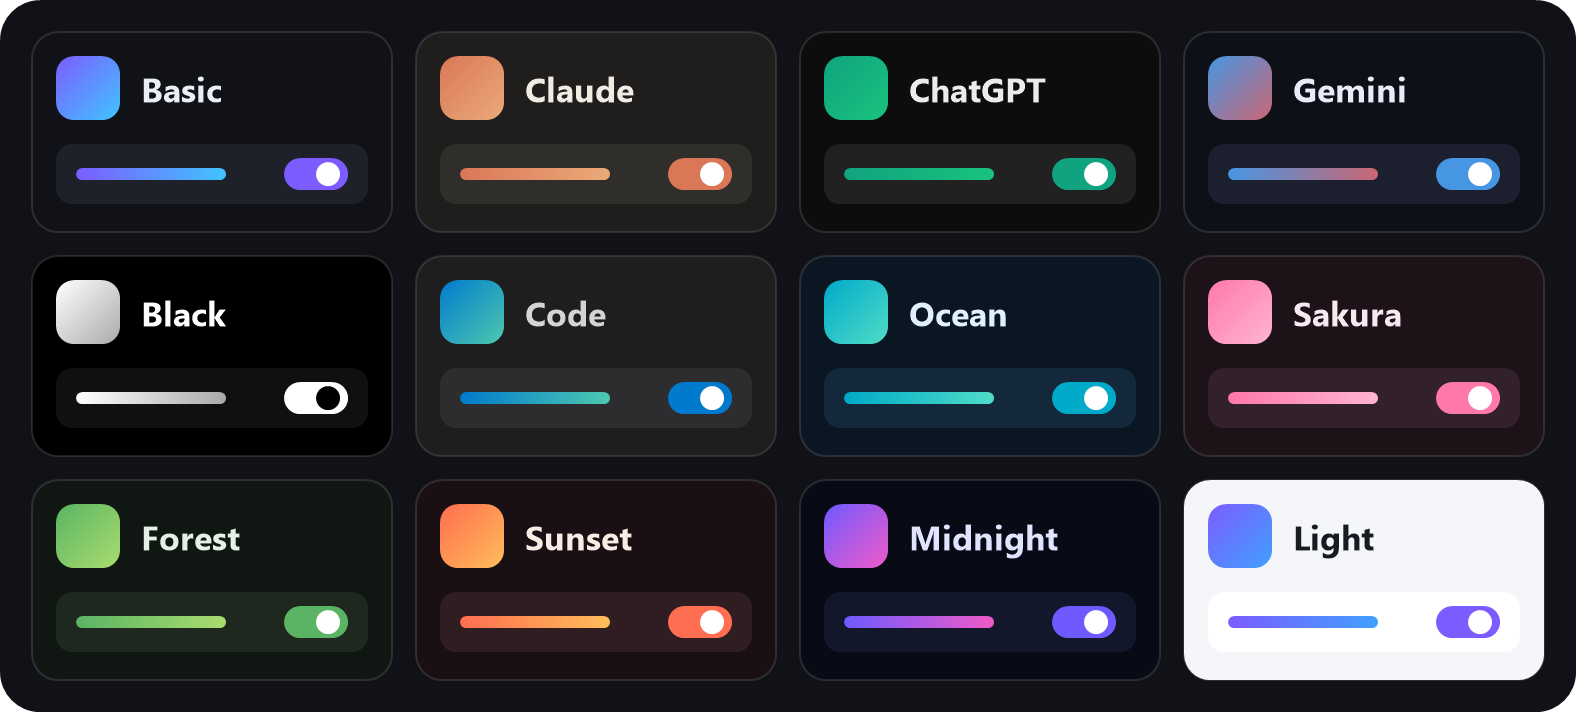
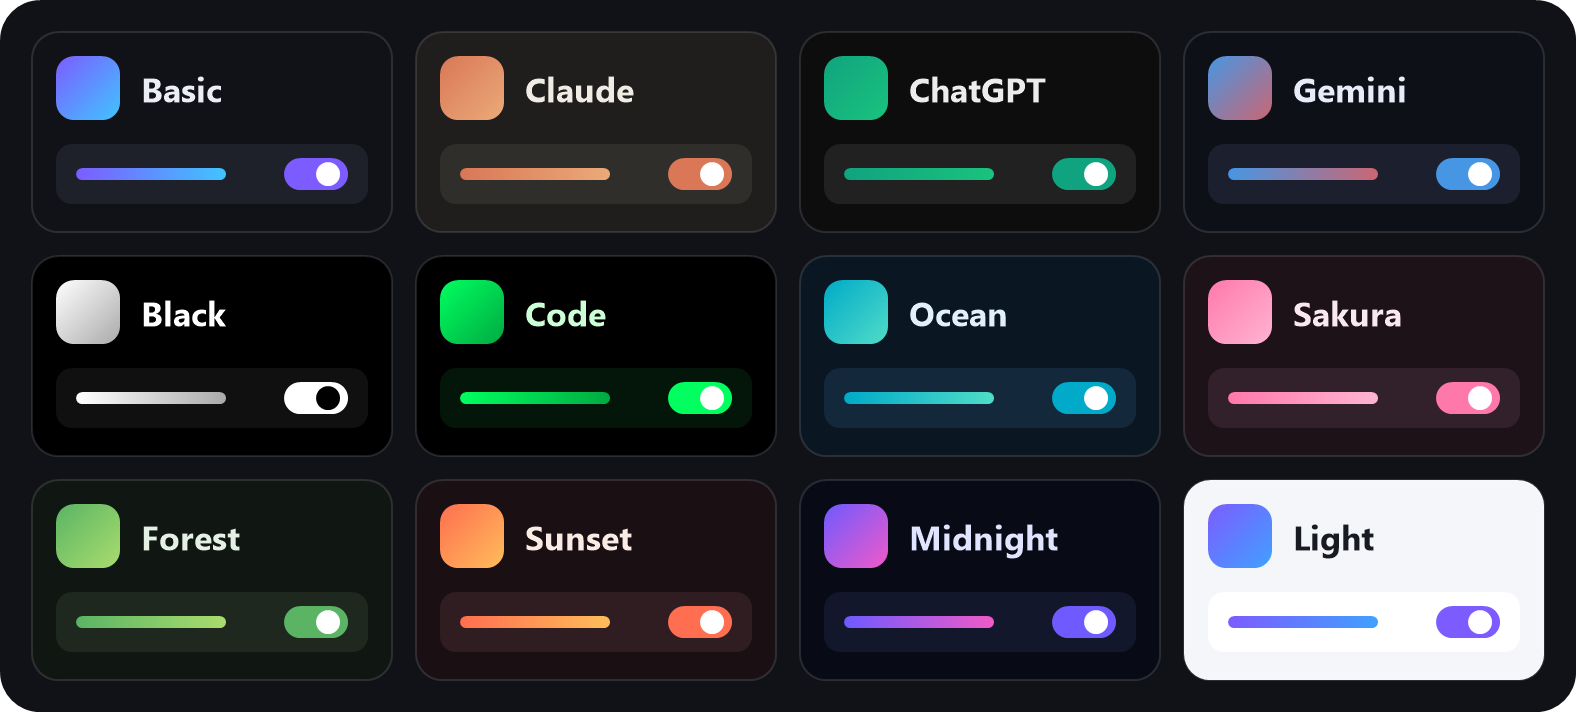
Matrix rain backdrop and green glass look for the Code theme

Changed region(s): [[0.2487, 0.3399, 0.4975, 0.6489]]

diff --git a/CLAUDE.md b/CLAUDE.md
@@ -4,7 +4,7 @@ This file provides guidance to Claude Code (claude.ai/code) when working with co
 
 ## What this is
 
-Luau script hub for a Roblox executor. The UI is **our own library, `ui.lua`**; it replaced Rayfield Gen2. It copies the subset of the Gen2 API the modules use: lowercase props (`name`, `description`, `callback`, `flag`, `forgetState`), `Window:CreateTab/Notify/Unload/Get/Set`, `Window.Flags` (a proxy where writing calls `:Set` and fires the callback, iterable with `for k, v in Window.Flags`), and `Tab:CreateSection/Toggle/Slider/Dropdown/Button/Text`. If a module needs a new element or option, add it to `ui.lua` rather than calling Rayfield. Per-game values save to `<workspace>/megab/configs/<GameId>.json`. The global UI settings (theme and toggle key, chosen from the gear panel) save to `megab/settings.json`. Closing the window shows a round icon at the top center that reopens it. Theming works through `bind(inst, prop, themeKey)` plus `onTheme(fn)` refreshers, so new UI pieces must use those, or a theme switch won't recolor them. Icons are Lucide, stored as `{assetId, rectX, rectY}` (48px) in the `ICONS` table at the top of `ui.lua`, extracted from Rayfield's generated `icons.lua`. Add a new icon by looking up its entry there; `CreateTab` also takes `icon = "<lucide-name>"`. Themes with a `mascot = "<name>"` field (Claude, ChatGPT, Gemini) show `assets/<name>.png` as a faint watermark over the pages: `ui.lua` caches it in `megab/assets/`, downloads it once from `opts.assetBase` (the loader passes `REMOTE_BASE`), and displays it with `getcustomasset`; with no `getcustomasset` it just shows nothing. The PNGs were supplied by the user. A dark logo must be recolored to white on a transparent background, or it disappears on dark themes. Keep them at 1080px or smaller. A UIStroke on a CanvasGroup ignores `GroupTransparency`, so the window and splash strokes are faded by hand in open, close and unload. Tests can click UI buttons with `firesignal(button.MouseButton1Click)`. No build, lint, or test tooling exists. Scripts run inside the executor and get tested in a live Roblox client, for example through the `roblox-mcp` / `madium` / `potassium` MCP tools when they are connected. The loader reads `megab/ui.lua` from the workspace (or `REMOTE_BASE`), so `ui.lua` needs syncing there like the modules.
+Luau script hub for a Roblox executor. The UI is **our own library, `ui.lua`**; it replaced Rayfield Gen2. It copies the subset of the Gen2 API the modules use: lowercase props (`name`, `description`, `callback`, `flag`, `forgetState`), `Window:CreateTab/Notify/Unload/Get/Set`, `Window.Flags` (a proxy where writing calls `:Set` and fires the callback, iterable with `for k, v in Window.Flags`), and `Tab:CreateSection/Toggle/Slider/Dropdown/Button/Text`. If a module needs a new element or option, add it to `ui.lua` rather than calling Rayfield. Per-game values save to `<workspace>/megab/configs/<GameId>.json`. The global UI settings (theme and toggle key, chosen from the gear panel) save to `megab/settings.json`. Closing the window shows a round icon at the top center that reopens it. Theming works through `bind(inst, prop, themeKey)` plus `onTheme(fn)` refreshers, so new UI pieces must use those, or a theme switch won't recolor them. Icons are Lucide, stored as `{assetId, rectX, rectY}` (48px) in the `ICONS` table at the top of `ui.lua`, extracted from Rayfield's generated `icons.lua`. Add a new icon by looking up its entry there; `CreateTab` also takes `icon = "<lucide-name>"`. Themes with a `mascot = "<name>"` field (Claude, ChatGPT, Gemini) show `assets/<name>.png` as a faint watermark over the pages: `ui.lua` caches it in `megab/assets/`, downloads it once from `opts.assetBase` (the loader passes `REMOTE_BASE`), and displays it with `getcustomasset`; with no `getcustomasset` it just shows nothing. The PNGs were supplied by the user. A dark logo must be recolored to white on a transparent background, or it disappears on dark themes. Keep them at 1080px or smaller. A UIStroke on a CanvasGroup ignores `GroupTransparency`, so the window and splash strokes are faded by hand in open, close and unload. A theme can also set `glass = { panel = n, card = n }`, which makes elements bound to those keys see-through, and `backdrop = { sheet, sheets, cols, rows, frames, w, h, delay, transparency }`, an animated background behind everything. Roblox can't play GIFs, so a GIF is split into spritesheet PNGs (`assets/<sheet><i>.png`, 1024px max per sheet) and played by stepping `ImageRectOffset`. The Code theme does this with the Matrix rain from `docs/hacker.gif` (35 frames, 340×243, 0.16s). Tests can click UI buttons with `firesignal(button.MouseButton1Click)`. No build, lint, or test tooling exists. Scripts run inside the executor and get tested in a live Roblox client, for example through the `roblox-mcp` / `madium` / `potassium` MCP tools when they are connected. The loader reads `megab/ui.lua` from the workspace (or `REMOTE_BASE`), so `ui.lua` needs syncing there like the modules.
 
 ## Architecture
 

diff --git a/README.md b/README.md
@@ -48,7 +48,7 @@ Your switches save per game. Your theme and key save for every game.
 
 ## 🎨 Themes
 
-12 themes, and the colors fade smoothly when you switch. The **Claude**, **ChatGPT**, and **Gemini** themes also show their logo in the background.
+12 themes, and the colors fade smoothly when you switch. The **Claude**, **ChatGPT**, and **Gemini** themes also show their logo in the background, and **Code** plays animated Matrix rain behind see-through panels.
 
 <div align="center">
 <img src="assets/claude.png" width="96" alt="Claude theme mascot">
